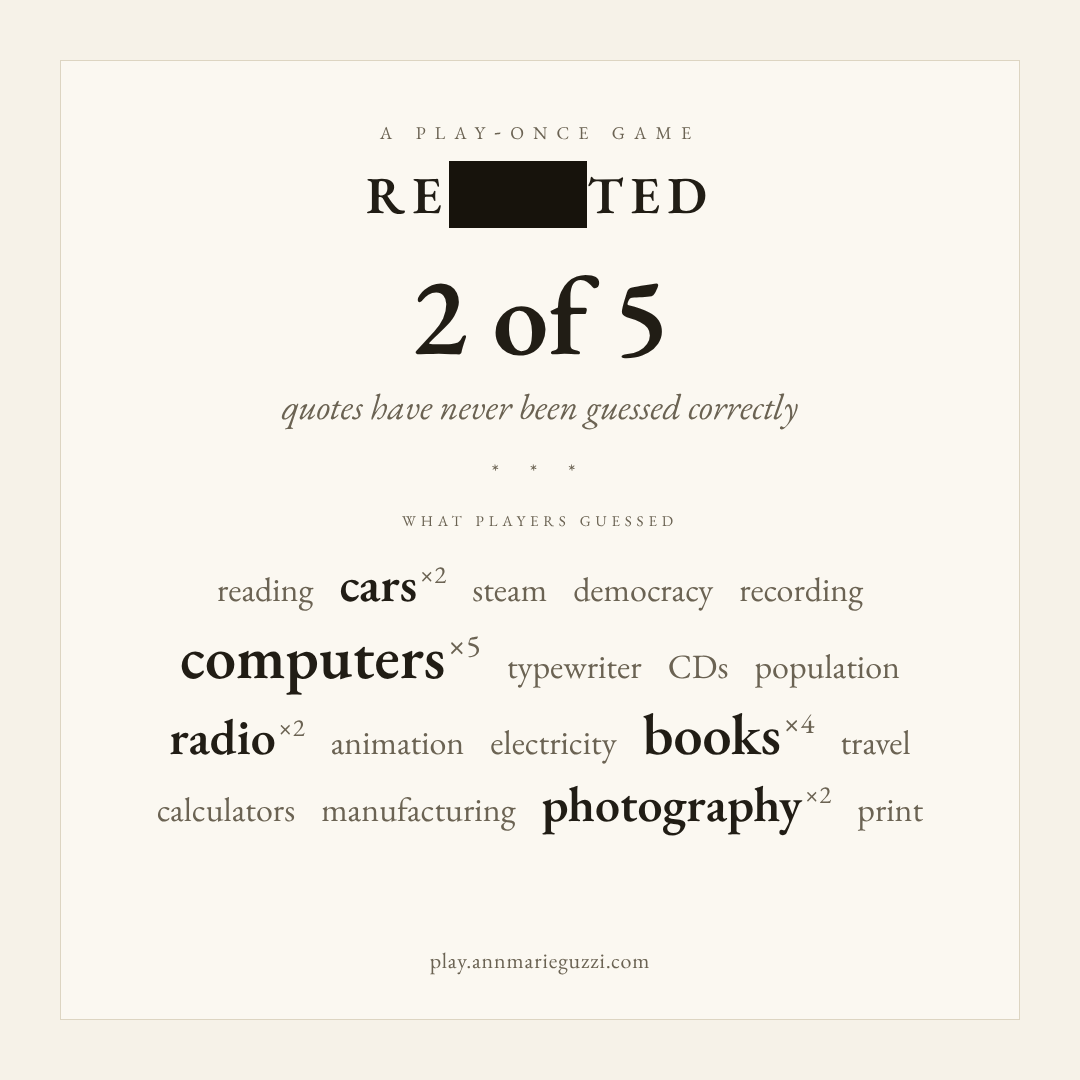
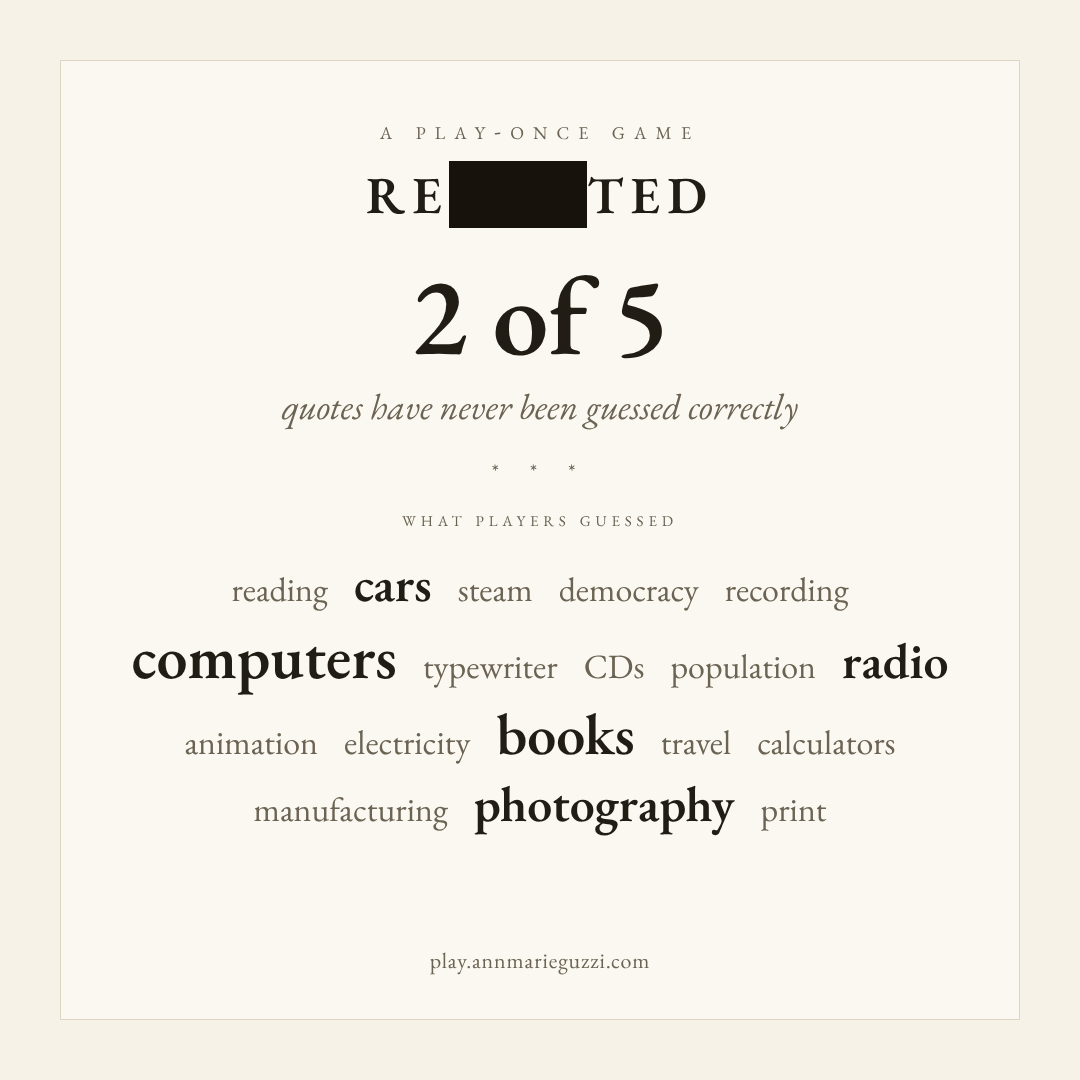
Social card: drop guess counts
Claude-Session: https://claude.ai/code/session_01P3jRLzxftNCV4BoirmfgAk

diff --git a/social/guesses.html b/social/guesses.html
@@ -20,7 +20,6 @@ body{width:1080px;height:1080px;background:var(--paper);font-family:var(--serif)
 .cloud{display:flex;flex-wrap:wrap;justify-content:center;align-items:baseline;gap:0 26px;max-width:820px}
 .w{font-size:38px;color:var(--muted)}
 .w.b{font-weight:600;color:var(--ink)}
-.w sup{font-size:.5em;font-weight:400;color:var(--muted);margin-left:2px}
 .foot{margin-top:auto;font-size:22px;color:var(--muted);letter-spacing:.04em}
 </style></head><body>
 <div class="page">
@@ -40,7 +39,7 @@ var W=[['reading',1],['cars',2],['steam',1],['democracy',1],['recording',1],['co
  ['travel',1],['calculators',1],['manufacturing',1],['photography',2],['print',1]];
 document.getElementById('cloud').innerHTML=W.map(function(x){
   var n=x[1], sz=34+(n>1?8+n*4:0);
-  return '<span class="w'+(n>1?' b':'')+'" style="font-size:'+sz+'px">'+x[0]+(n>1?'<sup>×'+n+'</sup>':'')+'</span>';
+  return '<span class="w'+(n>1?' b':'')+'" style="font-size:'+sz+'px">'+x[0]+'</span>';
 }).join('');
 </script>
 </body></html>
